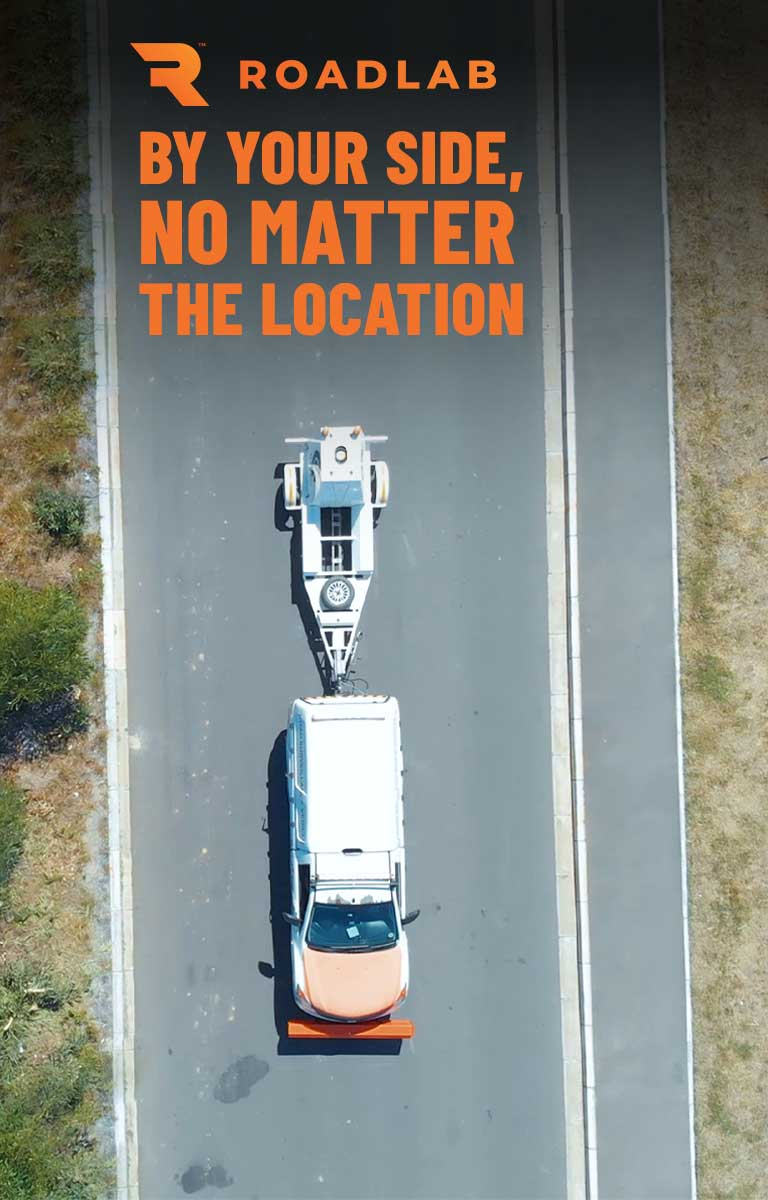
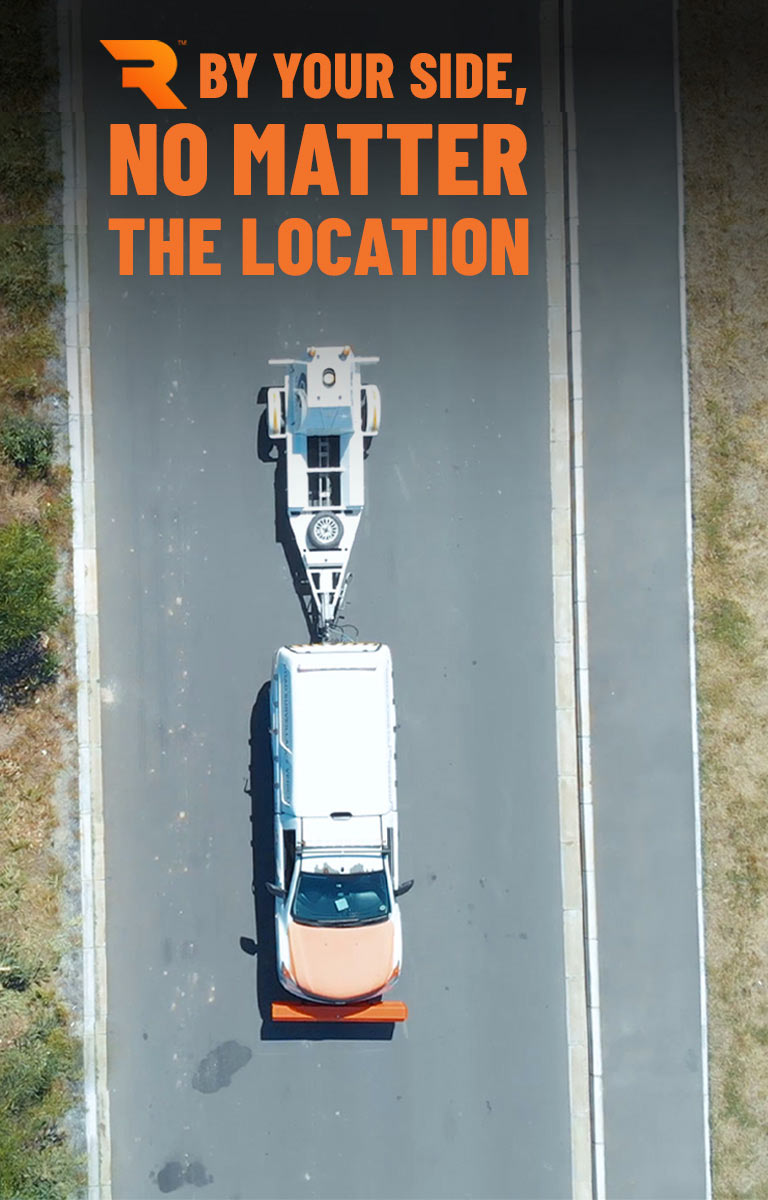
Updated homepage images

diff --git a/Interon.Roadlab.Web/css/style.css b/Interon.Roadlab.Web/css/style.css
@@ -1425,6 +1425,7 @@ and also iPads specifically.
     margin-right: auto;
     visibility: hidden;
     margin-bottom: 1rem;
+    width:45rem;
 }
 
 .benefits-block__left-text {
@@ -1433,6 +1434,7 @@ and also iPads specifically.
 
 .benefits-blocks__right-box {
     padding-left: 5rem;
+    max-width: 45%;
 }
 
 .benefits-blocks__right-img {
@@ -2002,6 +2004,7 @@ and also iPads specifically.
 @media (max-width: 768px) {
     .benefits-blocks__right-box {
         padding-left: 3rem;
+        min-width: 100%;
     }
 }
 
